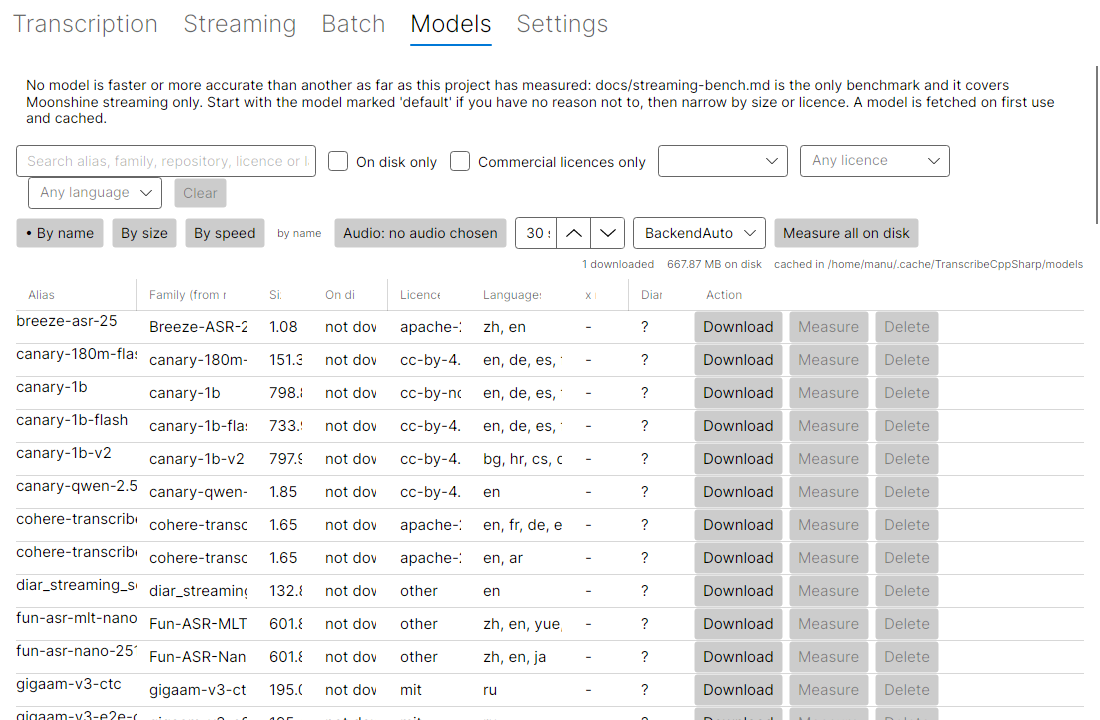
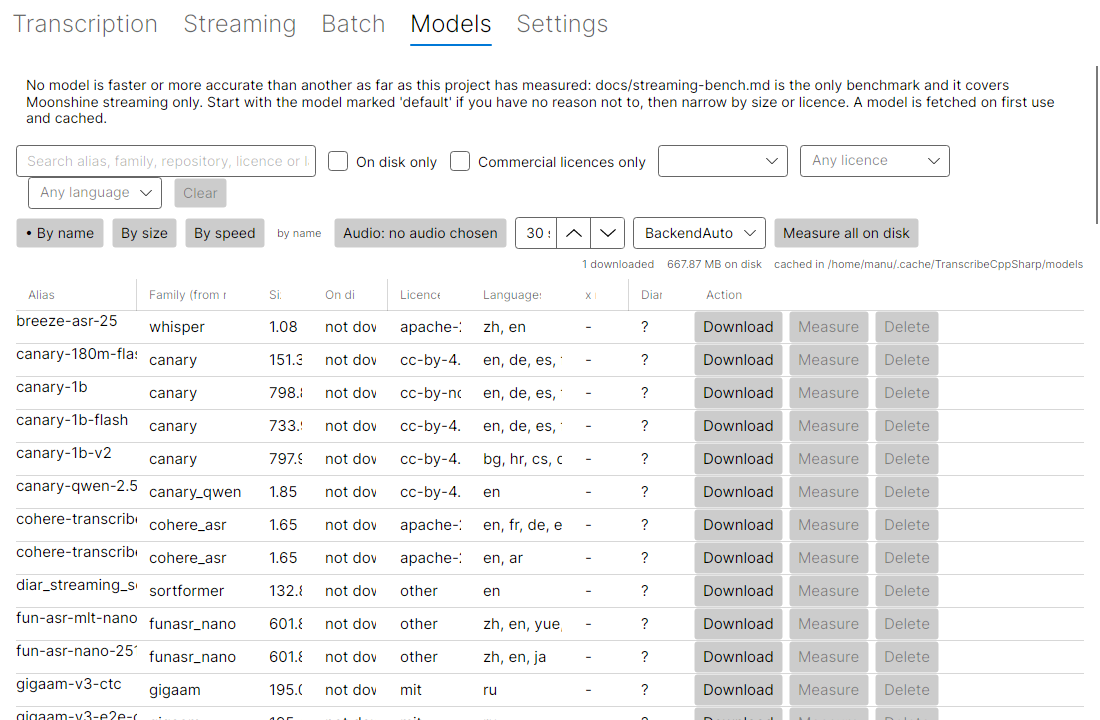
Say what the detail pane quotes, and prove the family column changed
The Family column now reads upstream's record rather than a name derived
from the repository, which changed a visible value in the grid and so
regenerated ui-models.png — the only one of the five to move.

I cannot look at the image in this session, so the claim is a test
instead: the grid is realized against a filtered row and the rendered
cells are read back. The alias column also holds "whisper-tiny", which is
exactly what a derived family looked like, so asserting on it would pass
while proving nothing; the family cell is the only one that reads
"whisper". Filtering is on the repository, because "whisper-tiny" also
matches "whisper-tiny.en" and left the row assertion ambiguous — which it
did, on the first run.

docs/ui.md gains the paragraph the detail pane needed: whose figures they
are, that only the pinned quantization has been verified here, where the
data is pinned, and what catalog/README.md says it must not be used for.

549 tests pass (59 UI + 490 interop), full rebuild 0 warnings,
license-check clean.

diff --git a/tests/TranscribeCppSharp.Ui.Tests/UpstreamCatalogDetailTests.cs b/tests/TranscribeCppSharp.Ui.Tests/UpstreamCatalogDetailTests.cs
@@ -1,8 +1,15 @@
+using Avalonia.Automation;
+using Avalonia.Controls;
+using Avalonia.Headless.XUnit;
+using Avalonia.LogicalTree;
+using Avalonia.VisualTree;
 using System.IO.Compression;
 using System.Reflection;
 using TranscribeCppSharp.Models;
 using TranscribeCppSharp.Shared;
 using TranscribeCppSharp.Ui.Models;
+using TranscribeCppSharp.Ui.ViewModels;
+using TranscribeCppSharp.Ui.Views;
 using Xunit;
 
 namespace TranscribeCppSharp.Ui.Tests;
@@ -111,6 +118,50 @@ public class UpstreamCatalogDetailTests
 
         Assert.True(blank.Length == 0,
             $"{blank.Length} model(s) with an incomplete detail pane: {string.Join(", ", blank.Take(10))}");
+    }
+
+    /// <summary>
+    /// The Family column shows upstream's family, not the one derived from the
+    /// repository name.
+    /// </summary>
+    /// <remarks>
+    /// Realized rather than read from the model, because the point is what a reader
+    /// sees in the grid: <c>whisper-tiny-gguf</c> derives to <c>whisper-tiny</c>,
+    /// which is an alias rather than a family, and upstream records <c>whisper</c>.
+    /// The alias column also holds <c>whisper-tiny</c>, so the assertion is on the
+    /// family cell alone — a value that appears nowhere else in the row.
+    /// </remarks>
+    [AvaloniaFact]
+    public void TheGridRendersUpstreamsFamilyNotTheDerivedOne()
+    {
+        string previous = ModelStore.CacheRootOverride ?? string.Empty;
+        bool hadOverride = ModelStore.CacheRootOverride is not null;
+        try
+        {
+            ModelStore.CacheRootOverride = Path.Combine(
+                Path.GetTempPath(), "tcsharp-ui-tests-family-grid");
+            // The repository, not the alias: "whisper-tiny" also matches
+            // "whisper-tiny.en", which would make the row assertion ambiguous.
+            var viewModel = new ModelManagerViewModel { Filter = "whisper-tiny-gguf" };
+            var view = new ModelManagerView { DataContext = viewModel };
+            var window = new Window { Content = view, Width = 1100, Height = 720 };
+            window.Show();
+
+            Assert.Single(viewModel.VisibleModels);
+            Assert.Equal("whisper", viewModel.VisibleModels[0].Family);
+
+            HashSet<string> rendered = window.GetVisualDescendants()
+                .OfType<TextBlock>()
+                .Where(t => t.IsVisible && !string.IsNullOrEmpty(t.Text))
+                .Select(t => t.Text!)
+                .ToHashSet();
+
+            Assert.Contains("whisper", rendered);
+        }
+        finally
+        {
+            ModelStore.CacheRootOverride = hadOverride ? previous : null;
+        }
     }
 
     /// <summary>Nothing fabricated for an alias upstream does not know.</summary>

diff --git a/docs/ui.md b/docs/ui.md
@@ -149,6 +149,16 @@ come to 58 GiB, which is why the grid starts empty of weights and shows what is 
   A model that declares nothing is hidden while a language is selected, because
   unknown is not the same as yes. The free-text search reaches the codes too, so
   typing one filters the same way, and *Clear* turns all of them off at once.
+- **The detail pane quotes upstream.** Below the grid, the selected model shows what
+  [`transcribe.cpp`](https://github.com/handy-computer/transcribe.cpp) itself records:
+  the parameter count and the checkpoint it was converted from, every quantization they
+  publish (with the note that only the one this row pins has been downloaded and verified
+  here), their capability flags — with *unverified upstream* when they mark one supported
+  without claiming to have checked it — and their headline accuracy figure, named as their
+  measurement on their benchmark. The family column comes from the same source, so it
+  reads `whisper` rather than a name guessed from the repository.
+  The data is pinned at the tag this project binds; see
+  [`catalog/`](../catalog/README.md) for how it was fetched and what it must not be used for.
 - **Licence and languages come from the model card.** The grid's Languages column
   shows the first four codes and counts the rest, because some models declare 99;
   the detail pane below carries the whole list and names where it came from. Every
